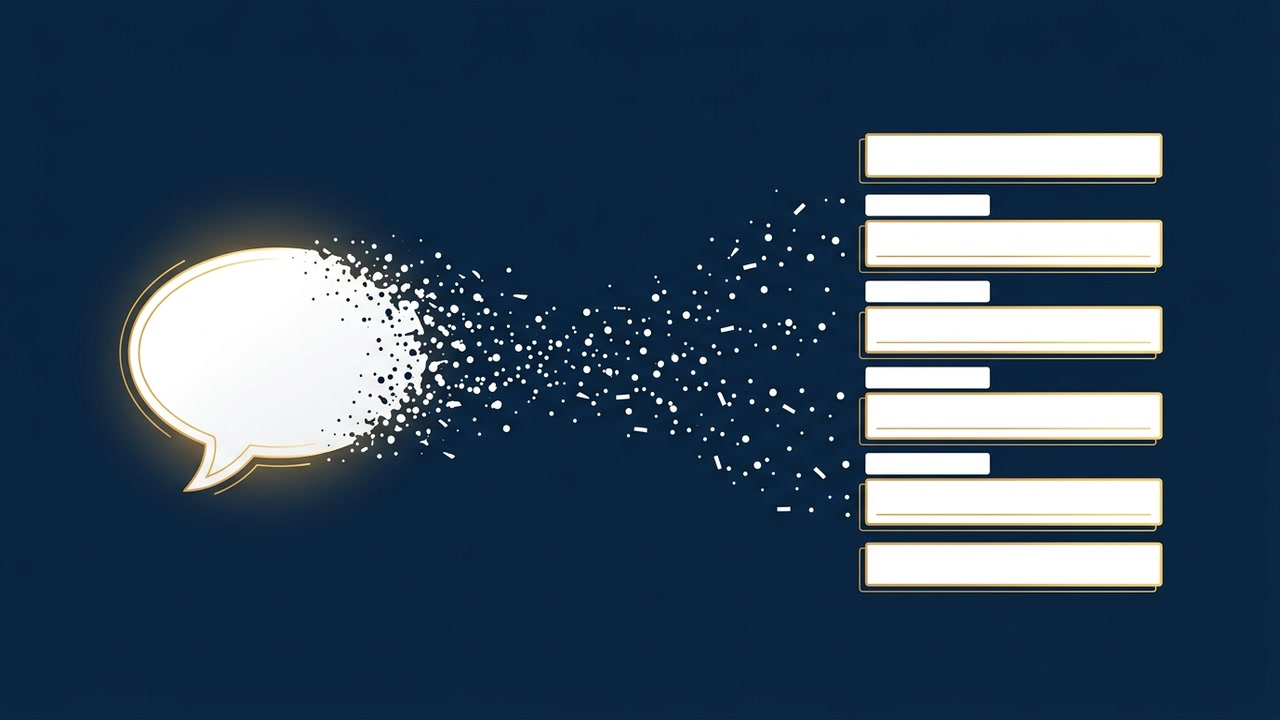
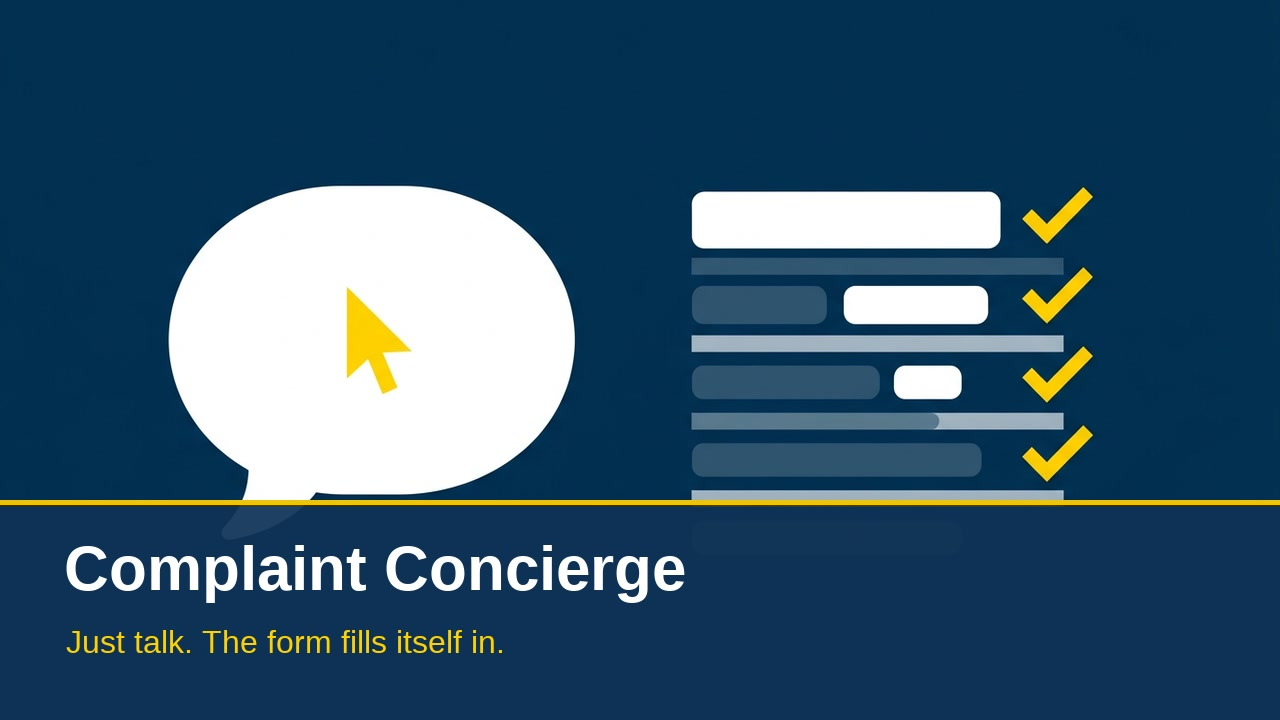
Redo the thumbnail as a promo image, with the title drawn on
The earlier prompts described shapes without saying what the product was, so
they produced diagrams rather than promotion. Leading with what the app does —
talk instead of filling in an eight-stage complaint form — produced something
that reads as marketing. Five concepts were generated; this one survived
because it stays legible at 360px, the size YouTube lists thumbnails at.

The title is drawn by ffmpeg rather than the image model. Image models garble
lettering, and a misspelt "Complaint Concierge" or "AFCA" on something going to
a recruiter at AFCA would be the worst possible typo. thumbnail.sh redraws it
from the committed artwork, so the wording can change without regenerating.

Text sits in a bottom band, not a left column: the artwork is composed
centre-frame, so a column ran the title across the speech bubble and cropping
to make room cut the bubble in half.

Changed region(s): [[0.0, 0.1833, 1.0, 0.9167]]

diff --git a/video/public/thumbnail/README.md b/video/public/thumbnail/README.md
@@ -2,24 +2,47 @@
 
 `thumbnail.jpg` — 1280x720, the YouTube thumbnail for the explainer.
 
-A speech bubble on the left dissolving into particles that reassemble as form
-fields on the right: the video's whole argument in one image, reading left to
-right. No text is baked in, so it can be retitled without regenerating.
+A speech bubble beside a form completing itself with ticks, and the title in a
+band across the bottom. Rebuild it with `../../thumbnail.sh`, which takes the
+generated artwork and draws the text over it.
 
-Generated with the Gemini nanobanana extension, then resized from 1376x768:
+**The text is drawn by ffmpeg, not by the image model.** Image models garble
+lettering, and a misspelt "Complaint Concierge" or "AFCA" on something sent to a
+recruiter at AFCA would be the worst possible typo. Drawing it in code means it
+is sharp, correctly spelled, in the exact brand colours, and the wording can
+change without spending another generation — edit `TITLE` and `TAGLINE` at the
+top of the script.
+
+Layout note: the text sits in a bottom band rather than a left-hand column.
+The artwork is composed centre-frame, so a left column ran the title across the
+speech bubble, and cropping to make room sliced the bubble in half. A bottom
+band works with whatever the generator produces.
+
+Checked at 360px wide — the size YouTube shows in a list — where the title is
+still clearly legible.
+
+The artwork was generated with the Gemini nanobanana extension:
 
 ```bash
-gemini --yolo "/generate 'Wide 16:9 widescreen banner, minimal abstract
-editorial illustration. A single rounded speech bubble on the left dissolving
-and reorganising into a neat vertical stack of blank form field rectangles on
-the right, suggesting spoken words turning into a completed form. Deep navy
-background, form fields and speech bubble in white with warm golden yellow
-accents. Flat vector style, generous negative space, calm and professional,
-government service design aesthetic, not playful, no people, no faces,
-absolutely no text or letters or numbers anywhere' --styles=minimalist"
-
-ffmpeg -i <generated> -vf "scale=1280:720:flags=lanczos" -q:v 2 thumbnail.jpg
+gemini --yolo "/generate 'Promotional header image for Complaint Concierge, a
+web app that helps ordinary Australians lodge a financial complaint. Instead of
+filling in a long eight stage government complaint form, the person describes
+their problem in plain conversation and an AI fills the official form in for
+them automatically. The feeling is relief, competence and calm. Australian
+financial ombudsman brand palette, deep navy 002850 background and bright
+yellow FFD200 accents. Wide 16:9 hero image about effortlessness: a large white
+rounded speech bubble centre left with a single bright yellow cursor inside it,
+and to the RIGHT a form whose rows are visibly completing themselves in
+sequence, each ending in a yellow checkmark, with a subtle sense of motion and
+automation. Conveys you talk and it does the rest. Clean, premium, high
+contrast flat vector, no people, absolutely no text or letters or numbers'
+--styles=minimalist"
 ```
+
+Leading the prompt with what the product *does* — rather than only describing
+shapes — is what turned these from diagrams into something that reads as
+marketing. Four other concepts were generated and rejected; this one survived
+because it stays legible at thumbnail size.
 
 Notes for regenerating: `/generate` ignores `--count` (one image per call) and
 rejects `--aspect`; output lands in `./nanobanana-output/` and is JPEG even when
